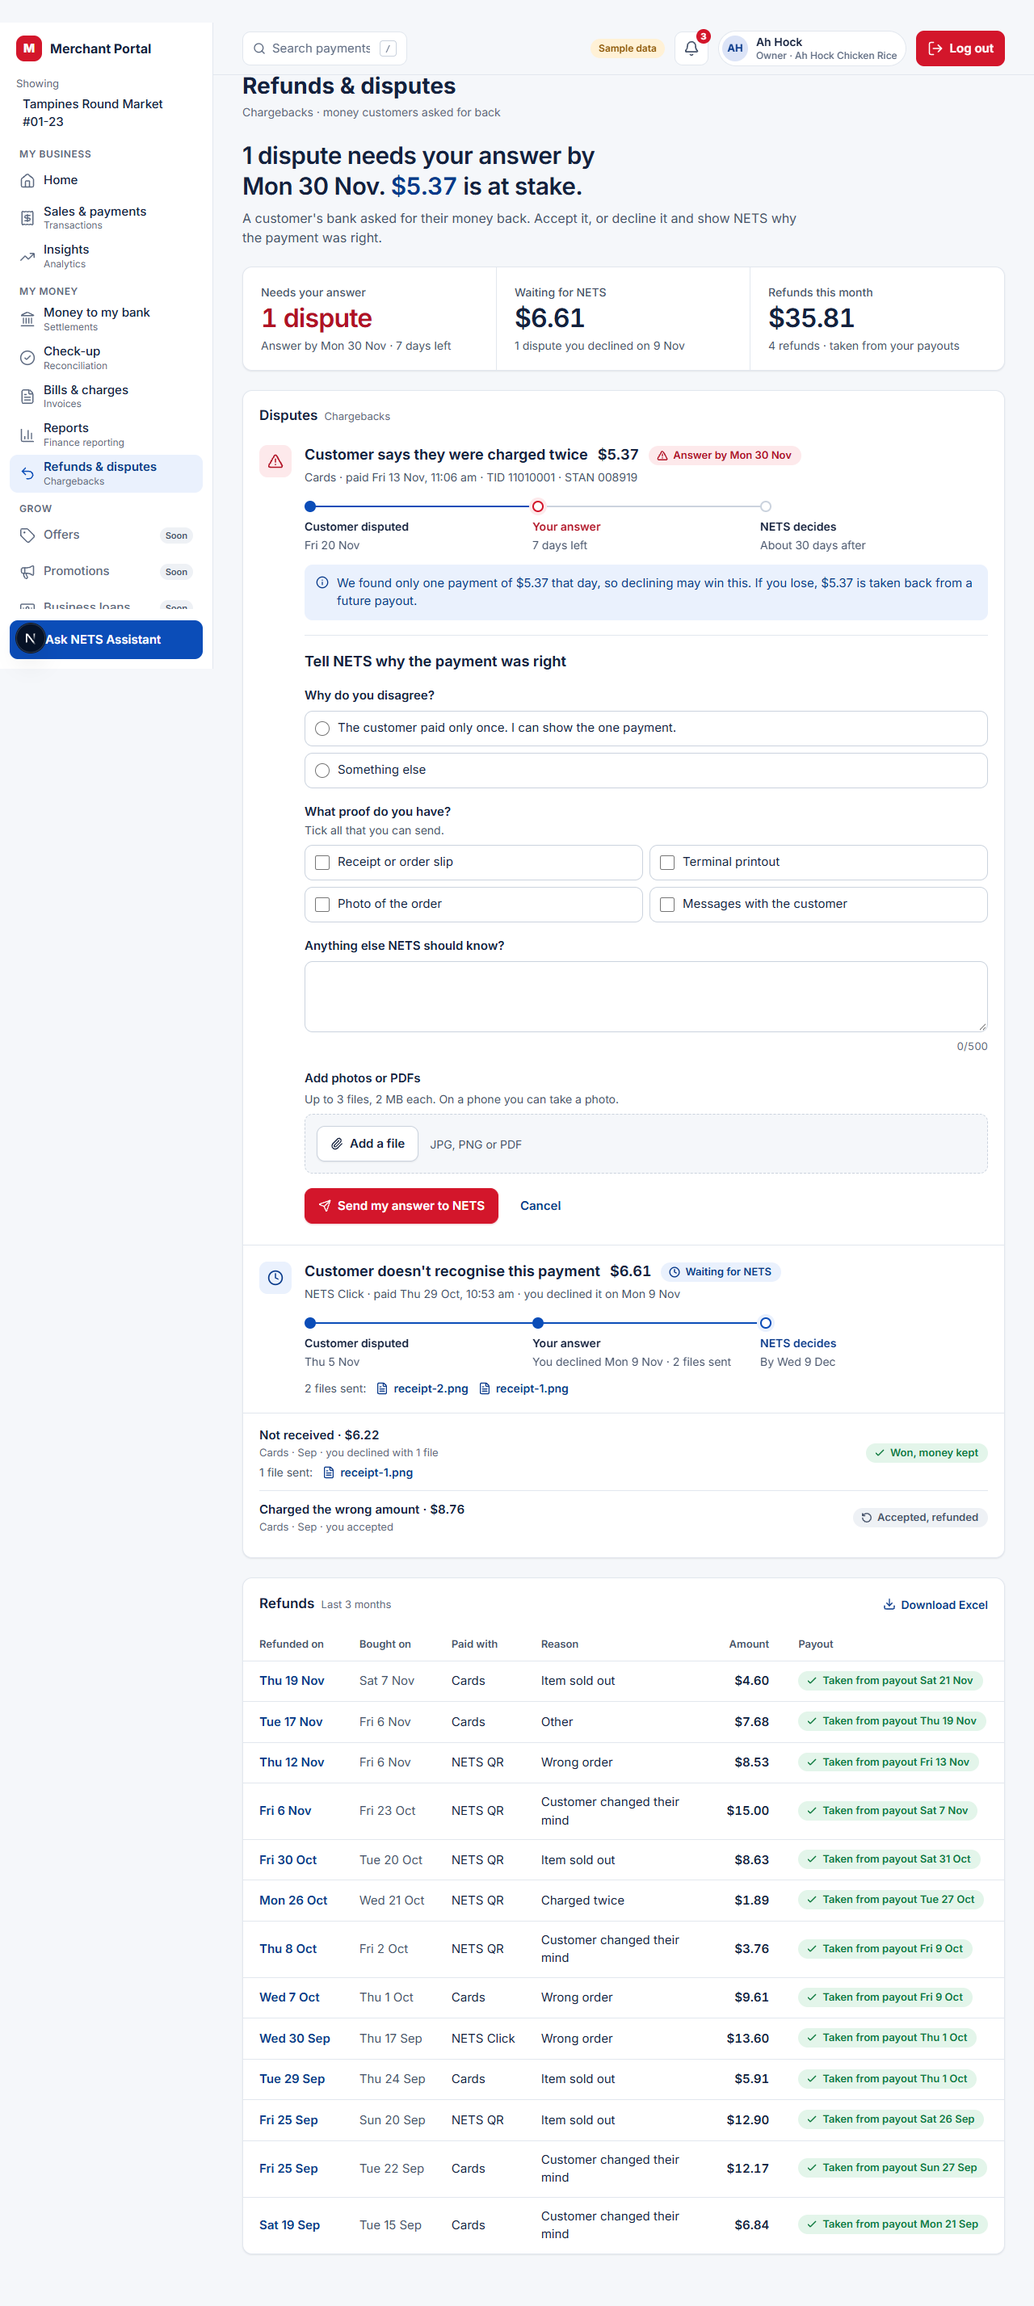
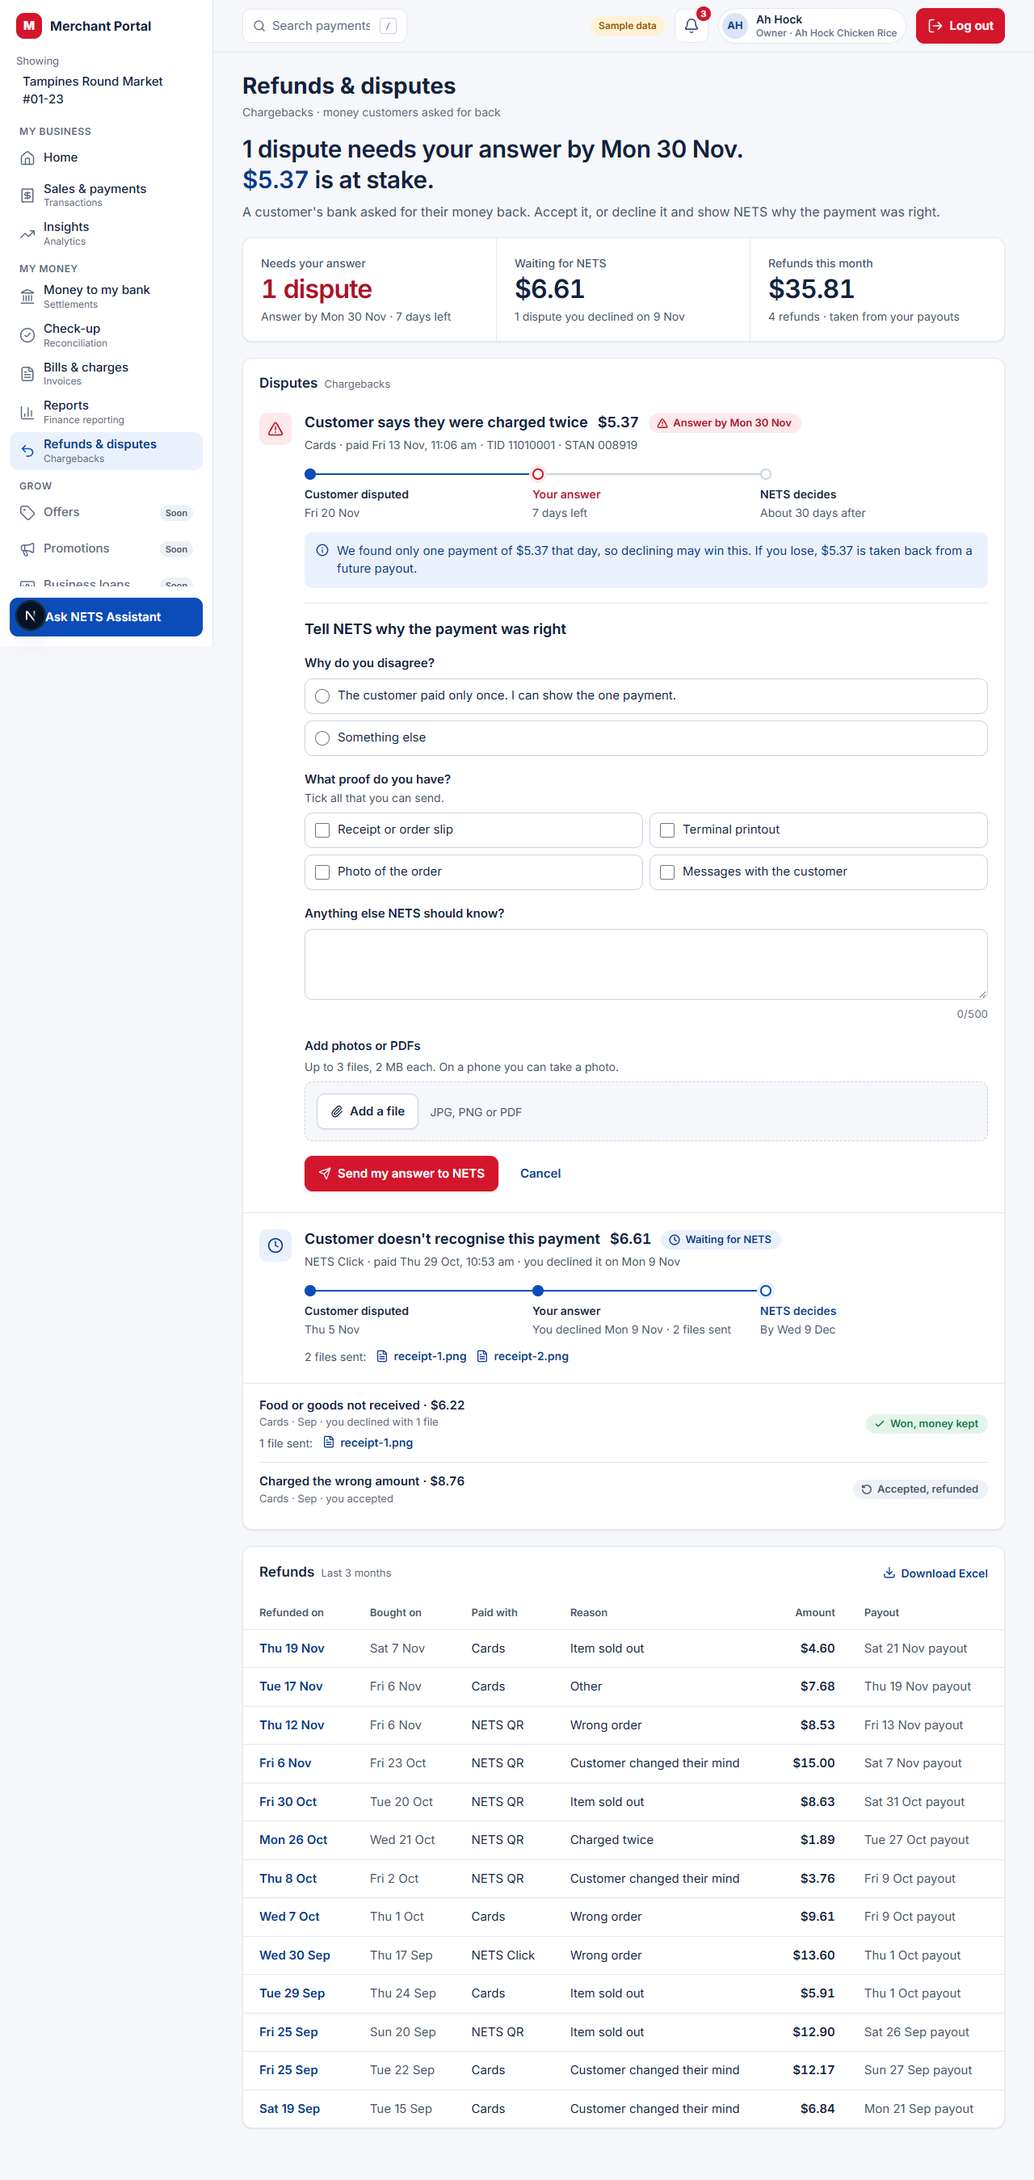
fix(disputes): design finish fixes (first viewport, payout column, phone layout, count-up)

diff --git a/tests/unit/disputes-view.test.js b/tests/unit/disputes-view.test.js
@@ -19,7 +19,7 @@ const refund = (over) => ({
 describe('buildDisputesPage', () => {
   it('leads with the open dispute: sentence, red tile, case with meta, hint and decline reasons', () => {
     const m = buildDisputesPage({ disputes: [dispute({})], refunds: [], today: TODAY })
-    expect(`${m.sentence.before}${m.sentence.figure}${m.sentence.after}`).toBe('1 dispute needs your answer by Mon 30 Nov. $46.50 is at stake.')
+    expect(m.sentence).toEqual({ lead: '1 dispute needs your answer by Mon 30 Nov.', before: '', figure: '$46.50', after: ' is at stake.' })
     expect(m.tiles[0]).toEqual({ label: 'Needs your answer', value: '1 dispute', hint: 'Answer by Mon 30 Nov · 7 days left', tone: 'attention' })
     const c = m.cases[0]
     expect(c.meta).toBe('Cards · paid Sat 14 Nov, 12:41 pm · TID 70012345 · STAN 004512')
@@ -45,14 +45,14 @@ describe('buildDisputesPage', () => {
     expect(m.cases[1].files.map((f) => [f.size, f.href])).toEqual([['640 KB', '/disputes/files/f1'], ['1.5 MB', '/disputes/files/f2']])
     expect(m.tiles[1]).toEqual({ label: 'Waiting for NETS', value: '$18.20', hint: '1 dispute you declined on 9 Nov' })
     expect(m.closed.map((c) => [c.short, c.closedSub, c.pill.text])).toEqual([
-      ['Not received · $46.50', 'Cards · Oct · you declined with 1 file', 'Won, money kept'],
+      ['Food or goods not received · $46.50', 'Cards · Oct · you declined with 1 file', 'Won, money kept'],
       ['Charged the wrong amount · $46.50', 'Cards · Sep · you accepted', 'Accepted, refunded'],
     ])
   })
 
   it('with nothing at all, says so without a blue figure', () => {
     const m = buildDisputesPage({ disputes: [], refunds: [], today: TODAY })
-    expect(m.sentence).toEqual({ before: 'Nothing to answer, and no refunds this month.', figure: '', after: '' })
+    expect(m.sentence).toEqual({ lead: '', before: 'Nothing to answer, and no refunds this month.', figure: '', after: '' })
   })
 
   it('with nothing open or waiting, talks about this month’s refunds', () => {
@@ -61,7 +61,7 @@ describe('buildDisputesPage', () => {
       refunds: [refund({}), refund({ id: 'r2', amountCents: 600 }), refund({ id: 'old', refundedAt: '2026-10-20T03:00:00.000Z' })],
       today: TODAY,
     })
-    expect(`${m.sentence.before}${m.sentence.figure}${m.sentence.after}`).toBe('Nothing to answer. You had 2 refunds ($18.80) this month.')
+    expect(m.sentence).toEqual({ lead: 'Nothing to answer.', before: 'You had ', figure: '2 refunds', after: ' ($18.80) this month.' })
     expect(m.tiles[0]).toEqual({ label: 'Needs your answer', value: 'None', hint: 'Nothing to answer' })
     expect(m.tiles[2]).toEqual({ label: 'Refunds this month', value: '$18.80', hint: '2 refunds · taken from your payouts' })
     expect(m.refunds).toHaveLength(3)
@@ -69,10 +69,10 @@ describe('buildDisputesPage', () => {
 })
 
 describe('toRefundView', () => {
-  it('says which payout the refund came from, or "Next payout" when it is not paid yet', () => {
-    expect(toRefundView(refund({}))).toMatchObject({ refundedOn: 'Sat 21 Nov', boughtOn: 'Sun 15 Nov', channel: 'NETS QR', reason: 'Wrong order', amount: '$12.80', payout: { tone: 'ok', text: 'Taken from payout Mon 23 Nov' } })
-    expect(toRefundView(refund({ payout: { id: 's', businessDate: '2026-11-23', status: 'pending', expectedDate: '2026-11-24', paidDate: null } })).payout).toEqual({ tone: 'info', text: 'Next payout' })
-    expect(toRefundView(refund({ payout: null })).payout).toEqual({ tone: 'info', text: 'Next payout' })
+  it('says which payout the refund came from, as plain text, or "Next payout" when it is not paid yet', () => {
+    expect(toRefundView(refund({}))).toMatchObject({ refundedOn: 'Sat 21 Nov', boughtOn: 'Sun 15 Nov', channel: 'NETS QR', reason: 'Wrong order', amount: '$12.80', payout: { paid: true, text: 'Mon 23 Nov payout' } })
+    expect(toRefundView(refund({ payout: { id: 's', businessDate: '2026-11-23', status: 'pending', expectedDate: '2026-11-24', paidDate: null } })).payout).toEqual({ paid: false, text: 'Next payout' })
+    expect(toRefundView(refund({ payout: null })).payout).toEqual({ paid: false, text: 'Next payout' })
   })
 })
 

diff --git a/components/disputes/RefundsTable.jsx b/components/disputes/RefundsTable.jsx
@@ -1,5 +1,5 @@
 import Link from 'next/link'
-import { Check, Download } from 'lucide-react'
+import { Download } from 'lucide-react'
 import { Pill } from '@/components/dashboard/Pill'
 import { EmptyState } from '@/components/dashboard/Panel'
 
@@ -9,12 +9,9 @@ import { EmptyState } from '@/components/dashboard/Panel'
  * @param {{rows: import('@/lib/disputes/view').RefundView[]}} props
  */
 export function RefundsTable({ rows }) {
-  const payoutPill = (/** @type {import('@/lib/disputes/view').RefundView['payout']} */ p) => (
-    <Pill tone={p.tone}>
-      {p.tone === 'ok' ? <Check className="mr-1.5 -ml-0.5 size-3.5 stroke-[2.4]" aria-hidden="true" /> : null}
-      {p.text}
-    </Pill>
-  )
+  // Paid: plain text (money leaving is not a success state). Still to come: a blue pill.
+  const payoutCell = (/** @type {import('@/lib/disputes/view').RefundView['payout']} */ p) =>
+    p.paid ? <span className="text-ink-2">{p.text}</span> : <Pill tone="info">{p.text}</Pill>
   return (
     <section aria-labelledby="refunds-h" className="min-w-0 rounded-[12px] border border-line bg-white shadow-panel">
       <div className="flex flex-wrap items-center justify-between gap-x-4 gap-y-1 px-4 pt-3 sm:px-5 sm:pt-[10px]">
@@ -61,7 +58,7 @@ export function RefundsTable({ rows }) {
                   <td className="px-4 py-3 whitespace-nowrap">{r.channel}</td>
                   <td className="px-4 py-3">{r.reason}</td>
                   <td className="px-4 py-3 text-right font-semibold tabular-nums">{r.amount}</td>
-                  <td className="px-5 py-3 whitespace-nowrap">{payoutPill(r.payout)}</td>
+                  <td className="px-5 py-3 whitespace-nowrap">{payoutCell(r.payout)}</td>
                 </tr>
               ))}
             </tbody>
@@ -78,7 +75,7 @@ export function RefundsTable({ rows }) {
                   <span className="text-[13px] text-ink-3">
                     Refunded {r.refundedOn} · {r.channel} · bought {r.boughtOn}
                   </span>
-                  <span>{payoutPill(r.payout)}</span>
+                  <span className="text-[13px]">{r.payout.paid ? <span className="text-ink-2">Taken from the {r.payout.text}</span> : payoutCell(r.payout)}</span>
                 </Link>
               </li>
             ))}

diff --git a/components/disputes/FileLinks.jsx b/components/disputes/FileLinks.jsx
@@ -12,26 +12,30 @@ export function PillIcon({ icon }) {
 }
 
 /**
- * "2 files sent" with a link to open each evidence file (in a new tab).
+ * "2 files sent" with a link to open each evidence file (in a new tab). On phones the files are a list under
+ * the label; from 640px they sit on one line after it.
  * @param {{files: import('@/lib/disputes/view').FileView[], label: string, className?: string}} props
  */
 export function FileLinks({ files, label, className = '' }) {
   return (
-    <div className={`flex flex-wrap items-center gap-x-3 gap-y-1 text-[14px] text-ink-2 ${className}`}>
+    <div className={`flex flex-col gap-x-3 text-[14px] text-ink-2 sm:flex-row sm:flex-wrap sm:items-center ${className}`}>
       <span>{label}:</span>
-      {files.map((f) => (
-        <a
-          key={f.id}
-          href={f.href}
-          target="_blank"
-          rel="noopener noreferrer"
-          className="inline-flex min-h-11 max-w-full items-center gap-1.5 font-semibold text-info underline-offset-[3px] hover:text-ink sm:min-h-0"
-        >
-          <FileText className="size-4 flex-none" aria-hidden="true" />
-          <span className="min-w-0 truncate">{f.name}</span>
-          <span className="sr-only">(opens in a new tab, {f.size})</span>
-        </a>
-      ))}
+      <ul className="m-0 flex min-w-0 list-none flex-col p-0 sm:flex-row sm:flex-wrap sm:gap-x-3">
+        {files.map((f) => (
+          <li key={f.id} className="min-w-0">
+            <a
+              href={f.href}
+              target="_blank"
+              rel="noopener noreferrer"
+              className="inline-flex min-h-11 max-w-full items-center gap-1.5 font-semibold text-info underline-offset-[3px] hover:text-ink sm:min-h-0"
+            >
+              <FileText className="size-4 flex-none" aria-hidden="true" />
+              <span className="min-w-0 truncate">{f.name}</span>
+              <span className="sr-only">(opens in a new tab, {f.size})</span>
+            </a>
+          </li>
+        ))}
+      </ul>
     </div>
   )
 }

diff --git a/lib/disputes/view.js b/lib/disputes/view.js
@@ -30,7 +30,7 @@ import {
  * }} DisputeView
  * @typedef {{
  *   id: string, refundedOn: string, boughtOn: string, channel: string, reason: string, amount: string,
- *   href: string, payout: {tone: 'ok' | 'info', text: string},
+ *   href: string, payout: {paid: boolean, text: string},
  * }} RefundView
  */
 
@@ -119,10 +119,11 @@ export function toDisputeView(d, today) {
  */
 export function toRefundView(r) {
   const p = r.payout
+  // Plain text once taken (money leaving is not a success state); a blue pill only while it is still to come.
   const payout =
     p && p.status === 'paid'
-      ? { tone: /** @type {const} */ ('ok'), text: `Taken from payout ${formatDay(p.paidDate ?? p.expectedDate)}` }
-      : { tone: /** @type {const} */ ('info'), text: 'Next payout' }
+      ? { paid: true, text: `${formatDay(p.paidDate ?? p.expectedDate)} payout` }
+      : { paid: false, text: 'Next payout' }
   return {
     id: r.id,
     refundedOn: formatDay(sgtDate(r.refundedAt)),
@@ -177,7 +178,11 @@ export function buildDisputesPage({ disputes, refunds, today }) {
     },
     today,
   )
-  const [before, after = ''] = sentence.text.split('{figure}')
+  const [head, after = ''] = sentence.text.split('{figure}')
+  // The first sentence(s) go in `lead`, so the page can break the line at a sentence boundary.
+  const cut = head.lastIndexOf('. ')
+  const lead = cut === -1 ? '' : head.slice(0, cut + 1)
+  const before = cut === -1 ? head : head.slice(cut + 2)
 
   const lastDeclined = waiting.map((v) => v.row.answeredAt).filter(Boolean).sort().at(-1)
   const tiles = [
@@ -207,7 +212,7 @@ export function buildDisputesPage({ disputes, refunds, today }) {
   ]
 
   return {
-    sentence: { before, figure: sentence.figure, after },
+    sentence: { lead, before, figure: sentence.figure, after },
     hasOpen: open.length > 0,
     tiles,
     cases: [...open, ...waiting].map((v) => v.view),

diff --git a/app/(portal)/disputes/page.jsx b/app/(portal)/disputes/page.jsx
@@ -28,25 +28,23 @@ export default async function DisputesPage() {
   const note = viewOnlyNote(merchant)
 
   return (
-    <div className="flex flex-col gap-5 sm:gap-6">
+    <div className="flex flex-col gap-5">
       <div>
         <h1 className="text-[28px] leading-tight font-bold">Refunds &amp; disputes</h1>
         <p className="mt-1 text-[14px] text-ink-3">
           Chargebacks · money customers asked for back{selected ? ` · ${selected.name}` : ''}
         </p>
-      </div>
-
-      <div>
         <p
           data-testid="disputes-answer"
-          className="max-w-[34ch] text-[clamp(1.35rem,1.05rem+1.1vw,1.85rem)] leading-[1.3] font-semibold tracking-[-0.015em] text-balance"
+          className="mt-4 max-w-[46ch] text-[clamp(1.35rem,1.05rem+1.1vw,1.85rem)] leading-[1.3] font-semibold tracking-[-0.015em]"
         >
+          {m.sentence.lead ? <span className="block">{m.sentence.lead}</span> : null}
           {m.sentence.before}
           {m.sentence.figure ? <em className="text-info not-italic tabular-nums">{m.sentence.figure}</em> : null}
           {m.sentence.after}
         </p>
         {m.hasOpen && answers ? (
-          <p className="mt-2 max-w-[70ch] text-base text-ink-2">
+          <p className="mt-2 text-base text-ink-2">
             A customer&apos;s bank asked for their money back. Accept it, or decline it and show NETS why the payment was right.
           </p>
         ) : null}
@@ -66,7 +64,7 @@ export default async function DisputesPage() {
         className="grid grid-cols-1 divide-y divide-line rounded-[12px] border border-line bg-white shadow-panel sm:grid-cols-3 sm:divide-x sm:divide-y-0"
       >
         {m.tiles.map((t) => (
-          <StatTile key={t.label} {...t} />
+          <StatTile key={t.label} {...t} countUp />
         ))}
       </section>
 

diff --git a/components/dashboard/AnimatedMoney.jsx b/components/dashboard/AnimatedMoney.jsx
@@ -16,18 +16,26 @@ const ease = (t) => 1 - (1 - t) ** 3
 /**
  * A money figure that counts up (or down) to its new value over about 0.6 seconds when it changes.
  * The first render shows the final value, and so does anyone who asked for less motion. Text that is not
- * a dollar amount (like "Nothing") is shown as it is.
- * @param {{text: string}} props
+ * a dollar amount (like "Nothing") is shown as it is. With `countOnArrival`, it also counts up from $0.00 once
+ * when it first appears (not for anyone who asked for less motion).
+ * @param {{text: string, countOnArrival?: boolean}} props
  */
-export function AnimatedMoney({ text }) {
+export function AnimatedMoney({ text, countOnArrival = false }) {
   const reduced = useReducedMotion()
   const isMoney = MONEY.test(text)
   const target = isMoney ? toCents(text) : 0
   const [shown, setShown] = useState(target)
   const current = useRef(target)
+  const arrived = useRef(false)
 
   useEffect(() => {
     if (!isMoney) return
+    if (!arrived.current) {
+      arrived.current = true
+      // Read the setting directly: on the first render after hydration `reduced` is still the server value.
+      const less = window.matchMedia('(prefers-reduced-motion: reduce)').matches
+      if (countOnArrival && !reduced && !less) current.current = 0
+    }
     const from = current.current
     if (reduced || from === target) {
       current.current = target
@@ -45,7 +53,7 @@ export function AnimatedMoney({ text }) {
     }
     raf = requestAnimationFrame(tick)
     return () => cancelAnimationFrame(raf)
-  }, [target, isMoney, reduced])
+  }, [target, isMoney, reduced, countOnArrival])
 
   if (!isMoney) return text
   // While counting, show the in-between value; once settled it equals the server text exactly.

diff --git a/components/dashboard/StatTile.jsx b/components/dashboard/StatTile.jsx
@@ -5,9 +5,10 @@ import { AnimatedMoney } from './AnimatedMoney'
 
 /**
  * One cell of the summary strip.
- * @param {{label: string, value: string, hint?: string, scope?: string, note?: string, tone?: 'default' | 'attention', href?: string, linkLabel?: string}} props
+ * @param {{label: string, value: string, hint?: string, scope?: string, note?: string, tone?: 'default' | 'attention', href?: string, linkLabel?: string, countUp?: boolean}} props
+ *   countUp: money figures count up from $0.00 when the tile first appears (off under reduced motion)
  */
-export function StatTile({ label, value, hint, scope, note, tone = 'default', href, linkLabel }) {
+export function StatTile({ label, value, hint, scope, note, tone = 'default', href, linkLabel, countUp = false }) {
   const attention = tone === 'attention'
   return (
     <div className="flex flex-col gap-1 px-[18px] py-4 sm:px-[22px] sm:py-5">
@@ -18,7 +19,7 @@ export function StatTile({ label, value, hint, scope, note, tone = 'default', hr
       <span
         className={`text-[28px] leading-[1.15] font-semibold tracking-[-0.025em] tabular-nums sm:text-[32px] ${attention ? 'text-bad' : 'text-ink'}`}
       >
-        <AnimatedMoney text={value} />
+        <AnimatedMoney text={value} countOnArrival={countUp} />
       </span>
       {hint ? <span className="text-[14px] text-ink-2">{hint}</span> : null}
       {note ? <span className="text-[14px] font-medium text-bad">{note}</span> : null}

diff --git a/tests/unit/disputes-rules.test.js b/tests/unit/disputes-rules.test.js
@@ -12,7 +12,7 @@ describe('wording tables', () => {
     expect(REASON_TEXT.not_received).toBe("Customer says they didn't get their food or goods")
     expect(REASON_TEXT.not_recognised).toBe("Customer doesn't recognise this payment")
     expect(REASON_TEXT.wrong_amount).toBe('Customer says they were charged the wrong amount')
-    expect(Object.values(REASON_SHORT)).toEqual(['Charged twice', 'Not received', "Doesn't recognise the payment", 'Charged the wrong amount'])
+    expect(Object.values(REASON_SHORT)).toEqual(['Charged twice', 'Food or goods not received', "Doesn't recognise the payment", 'Charged the wrong amount'])
     expect(REFUND_REASON_TEXT).toEqual({
       wrong_order: 'Wrong order', charged_twice: 'Charged twice', sold_out: 'Item sold out',
       changed_mind: 'Customer changed their mind', other: 'Other',

diff --git a/components/disputes/DisputeCase.jsx b/components/disputes/DisputeCase.jsx
@@ -71,7 +71,7 @@ export function DisputeCase({ d, canRespond, onKeep }) {
       data-status={d.status}
       className="grid grid-cols-1 gap-x-4 gap-y-1 border-t border-line p-4 first:border-t-0 sm:grid-cols-[40px_minmax(0,1fr)] sm:p-5"
     >
-      <span aria-hidden="true" className={`mb-2 grid size-10 place-items-center rounded-[10px] sm:row-span-2 sm:mb-0 ${tile.cls}`}>
+      <span aria-hidden="true" className={`hidden size-10 place-items-center rounded-[10px] sm:row-span-2 sm:grid ${tile.cls}`}>
         <tile.Icon className="size-5" />
       </span>
       <div className="min-w-0">

diff --git a/lib/disputes/rules.js b/lib/disputes/rules.js
@@ -26,7 +26,7 @@ export const REASON_TEXT = {
 /** @type {Record<Reason, string>} */
 export const REASON_SHORT = {
   charged_twice: 'Charged twice',
-  not_received: 'Not received',
+  not_received: 'Food or goods not received',
   not_recognised: "Doesn't recognise the payment",
   wrong_amount: 'Charged the wrong amount',
 }

diff --git a/docs/features/refunds-disputes.md b/docs/features/refunds-disputes.md
@@ -5,7 +5,7 @@ Shows a merchant the money they gave back to customers (refunds) and the cases w
 
 ## Where it lives
 - Page: `/disputes` ("Refunds & disputes", sub-label "Chargebacks"), `app/(portal)/disputes/page.jsx`; server actions in `app/(portal)/disputes/actions.js`; evidence downloads in `app/(portal)/disputes/files`
-- Components: `components/disputes/` (`DisputeCase`, `Track`, `DeclineForm`, `AcceptConfirm`, `FileLinks`, `ClosedList`, `RefundsTable`, `shrink-image.js`)
+- Components: `components/disputes/` (`DisputesPanel`, `DisputeCase`, `Track`, `DeclineForm`, `AcceptConfirm`, `FileLinks`, `ClosedList`, `RefundsTable`, `shrink-image.js`)
 - Data: `lib/data/disputes.js`, `lib/data/refunds.js` (every query filters by the session merchant)
 
 ## How a dispute is answered
@@ -27,6 +27,11 @@ Shows a merchant the money they gave back to customers (refunds) and the cases w
 - A refund is taken from the payout of the day it was given: `settlements.refund_cents`, and net = gross - fee - refunds.
 - The check-up counts successful and refunded payments when it works out a payout's expected gross, so refunds do not show as false problems.
 - "Money to my bank" shows a line "Refunds -$X". Each outlet's payout share does the same.
+
+## Assumptions to confirm with NETS
+- **Answer window: 10 days.** `respond_by` = the day the dispute opened + 10 days. The demo dispute opens 3 days before the seed day, so it shows "7 days left". NETS's real deadline may differ.
+- **"NETS usually decides within about 30 days."** After a decline, `decide_by` = answer day + 30 days, and the confirmation line says so. This is our estimate, not a published NETS figure.
+- **Refunds 1 to 14 days after the purchase.** This is a common shop practice used for the demo data, not a NETS rule.
 
 ## Known simplifications
 - A chargeback does not change the stored money or the sales totals. Only the case and its status change.
